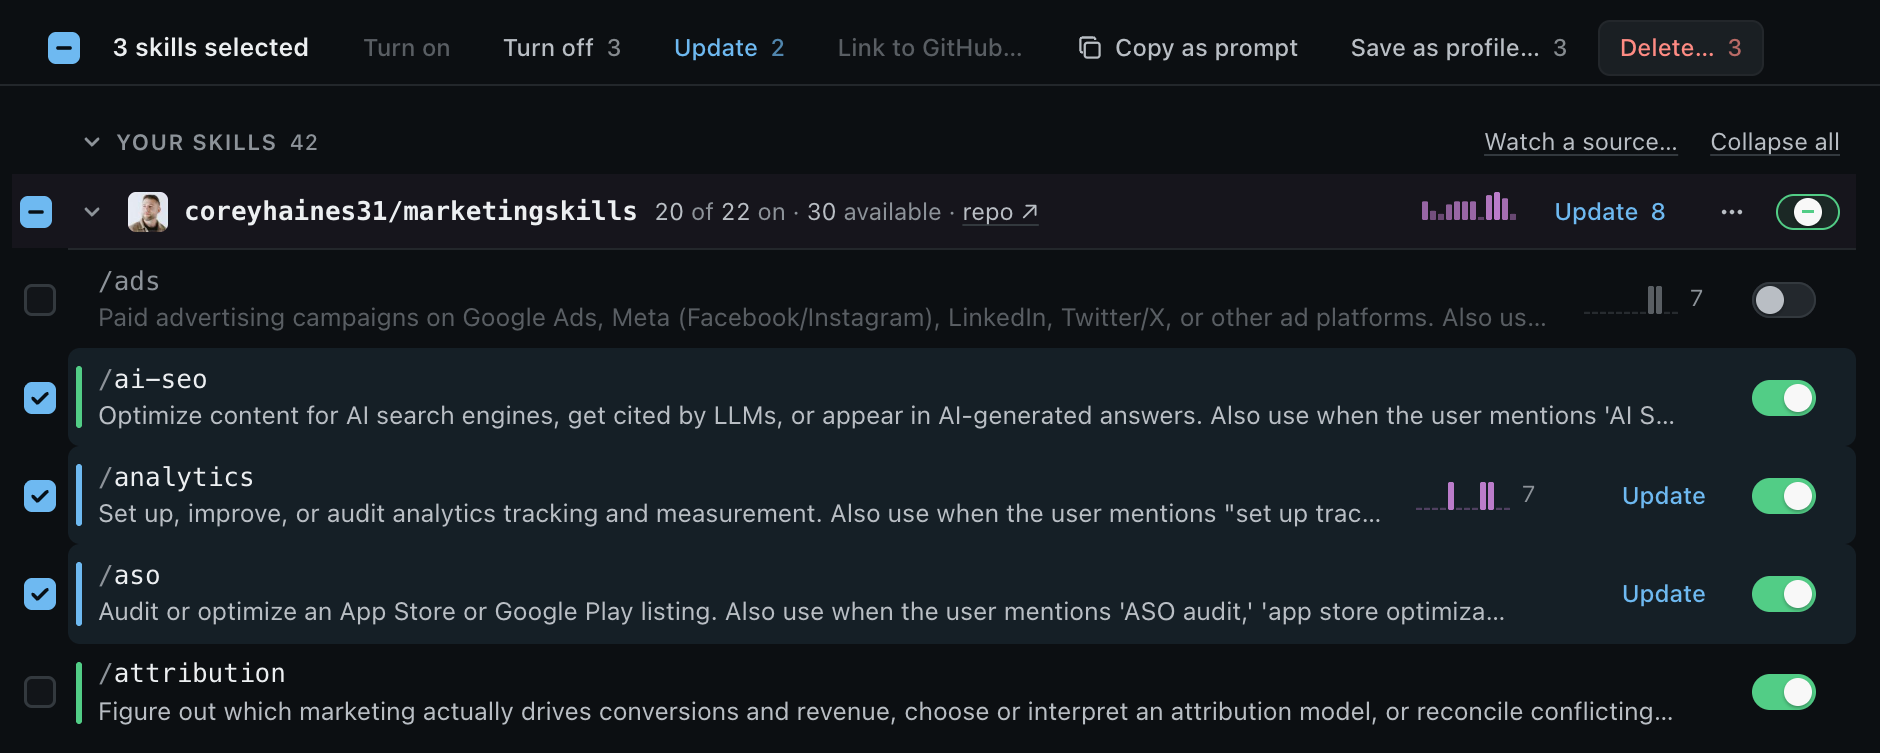
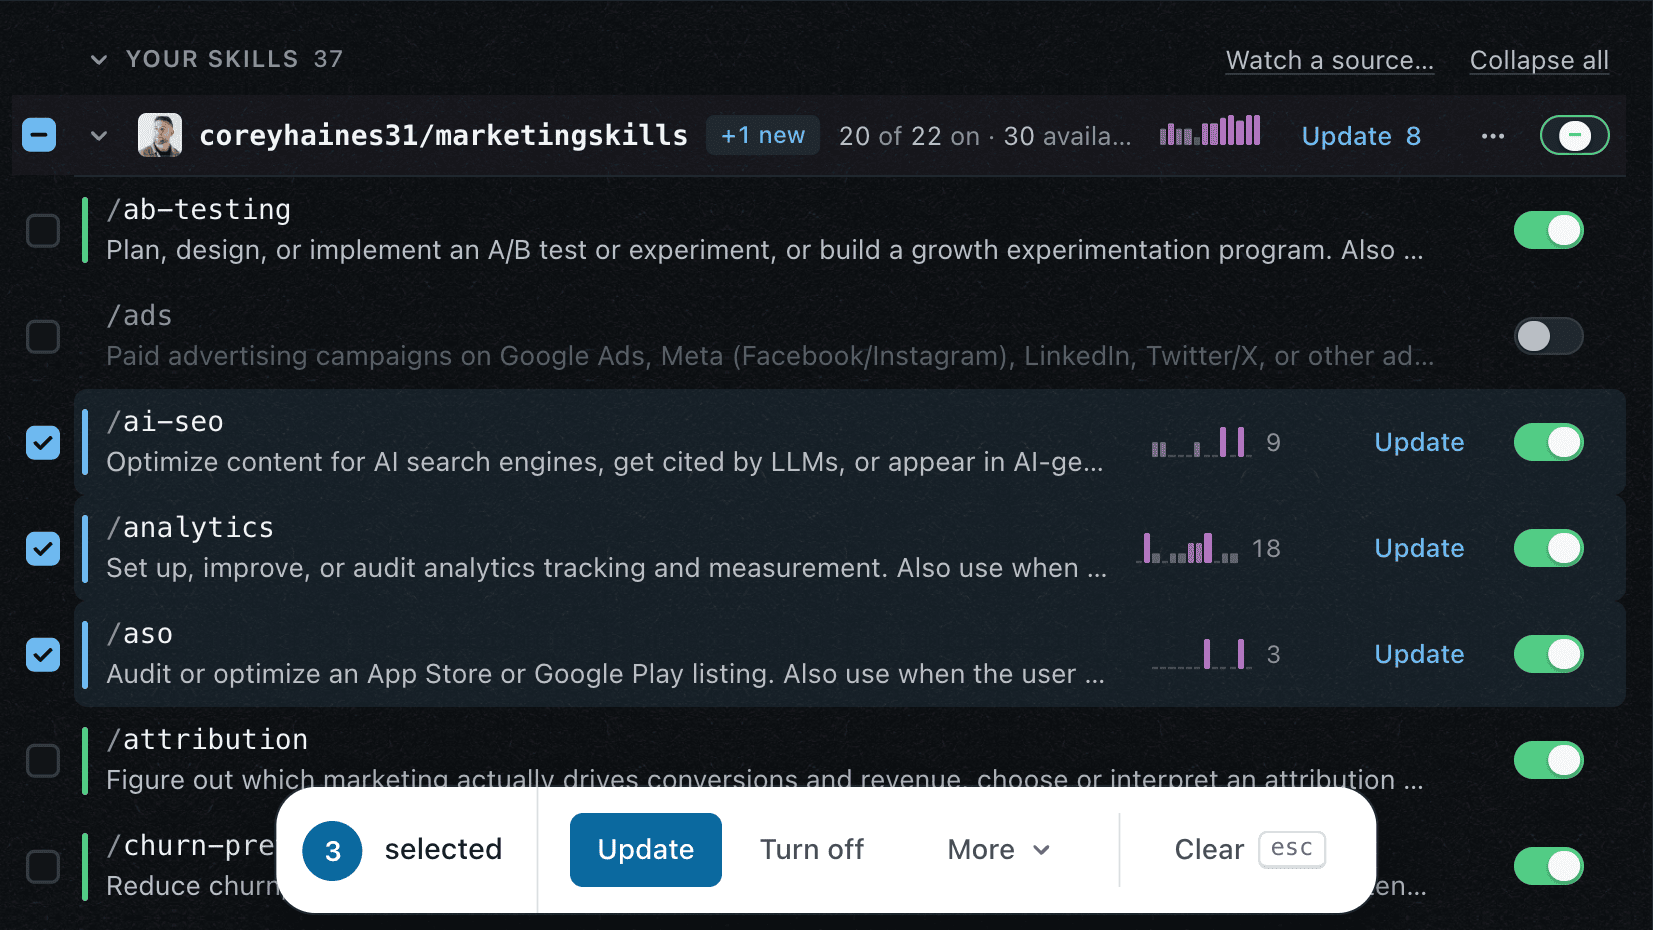
Show the new top bar and bulk dock in the README images (#34)

diff --git a/README.md b/README.md
@@ -18,7 +18,7 @@ Claude Code, Codex, Cursor, Gemini CLI, Copilot CLI, OpenCode, and more. Turn sk
 each harness, update them from GitHub, and find the ones that cost context but never run.
 
 <p align="center">
-  <img src="docs/images/demo.gif" alt="Search for a skill, read its panel, see the changes in an update, switch harness, and change the palette" width="900">
+  <img src="docs/images/demo.gif" alt="Search for a skill, read its panel, see the changes in an update, select skills with the bulk action dock, and switch to large collection rows" width="900">
 </p>
 
 ## Quick start
@@ -71,7 +71,7 @@ Use `--port` to set a different port, and `--no-open` to keep the browser closed
 <tr><td colspan="2"><b>See changes, then roll back</b><br>Before an update, see each changed file as a line diff, and after it, <b>History</b> can put back any of the last 5 versions.<br><br><img src="docs/images/diff.png" alt="Line diff of the files that an update changes" width="860"></td></tr>
 <tr><td width="50%" valign="top"><b>See context cost</b><br>The atlas estimates how many tokens each harness spends in every session to list the skills that are on.<br><br><img src="docs/images/cost.png" alt="Context cost: about 5.4k tokens, with the top five skills" width="400"></td><td width="50%" valign="top"><b>See what you use</b><br>A heatmap from your session logs shows which skills you use and which you never use.<br><br><img src="docs/images/usage.png" alt="Usage heatmap and the most used skills" width="400"></td></tr>
 <tr><td width="50%" valign="top"><b>Check before you trust</b><br>A read-only heuristic scan marks skills that run code, pipe a download into a shell, read secrets, or hide instructions.<br><br><img src="docs/images/security.png" alt="Security findings for a skill that pipes a download into sh" width="400"></td><td width="50%" valign="top"><b>Find problems</b><br>The <b>Issues</b> view shows SKILL.md files with bad frontmatter, a wrong name, a long description, or links to files that are not there.<br><br><img src="docs/images/problems.png" alt="A problem card: a link to a file that does not exist" width="400"></td></tr>
-<tr><td colspan="2"><b>Act on many at once</b><br>Select skills, a range, or a whole source, then turn them on or off, update, copy, or delete them in one step.<br><br><img src="docs/images/bulk.png" alt="Three skills selected, with the bulk action bar" width="860"></td></tr>
+<tr><td colspan="2"><b>Act on many at once</b><br>Select skills, a range, or a whole source, then turn them on or off, update, copy, or delete them in one step. The <b>Updates</b>, <b>Issues</b>, <b>New</b>, and <b>Unused</b> views also have one button for the skills they show, for example <b>Update all</b> or <b>Turn off unused</b>.<br><br><img src="docs/images/bulk.png" alt="Three skills selected, with the bulk action dock" width="860"></td></tr>
 <tr><td width="50%" valign="top"><b>Profiles</b><br>Save the current switches as a named profile, and apply it later after a preview of each change.<br><br><img src="docs/images/profiles-menu.png" alt="Profiles menu with one saved profile" width="400"></td><td width="50%" valign="top"><b>Move your set</b><br>Export your skills, sources, and switches to a file, and import it on another computer to get the same set.<br><br><img src="docs/images/skill-set.png" alt="Skill set section with Export, Copy, and Import" width="400"></td></tr>
 <tr><td width="50%" valign="top"><b>Make it yours</b><br>Pick rows or cards, a theme, one of five palettes, a quiet background texture, and the page size.<br><br><img src="docs/images/display.png" alt="Display options" width="400"></td><td width="50%" valign="top"><b>Small things</b><br>Find new skills in the repos you follow, see the avatar of each source, and delete to the Trash with Undo.</td></tr>
 <tr><td colspan="2"><b>Read a skill</b><br>Press <kbd>v</kbd> to read the whole SKILL.md in a large reader, with an outline of its sections.<br><br><img src="docs/images/reader.png" alt="The reader with an outline and the formatted SKILL.md" width="860"></td></tr>
